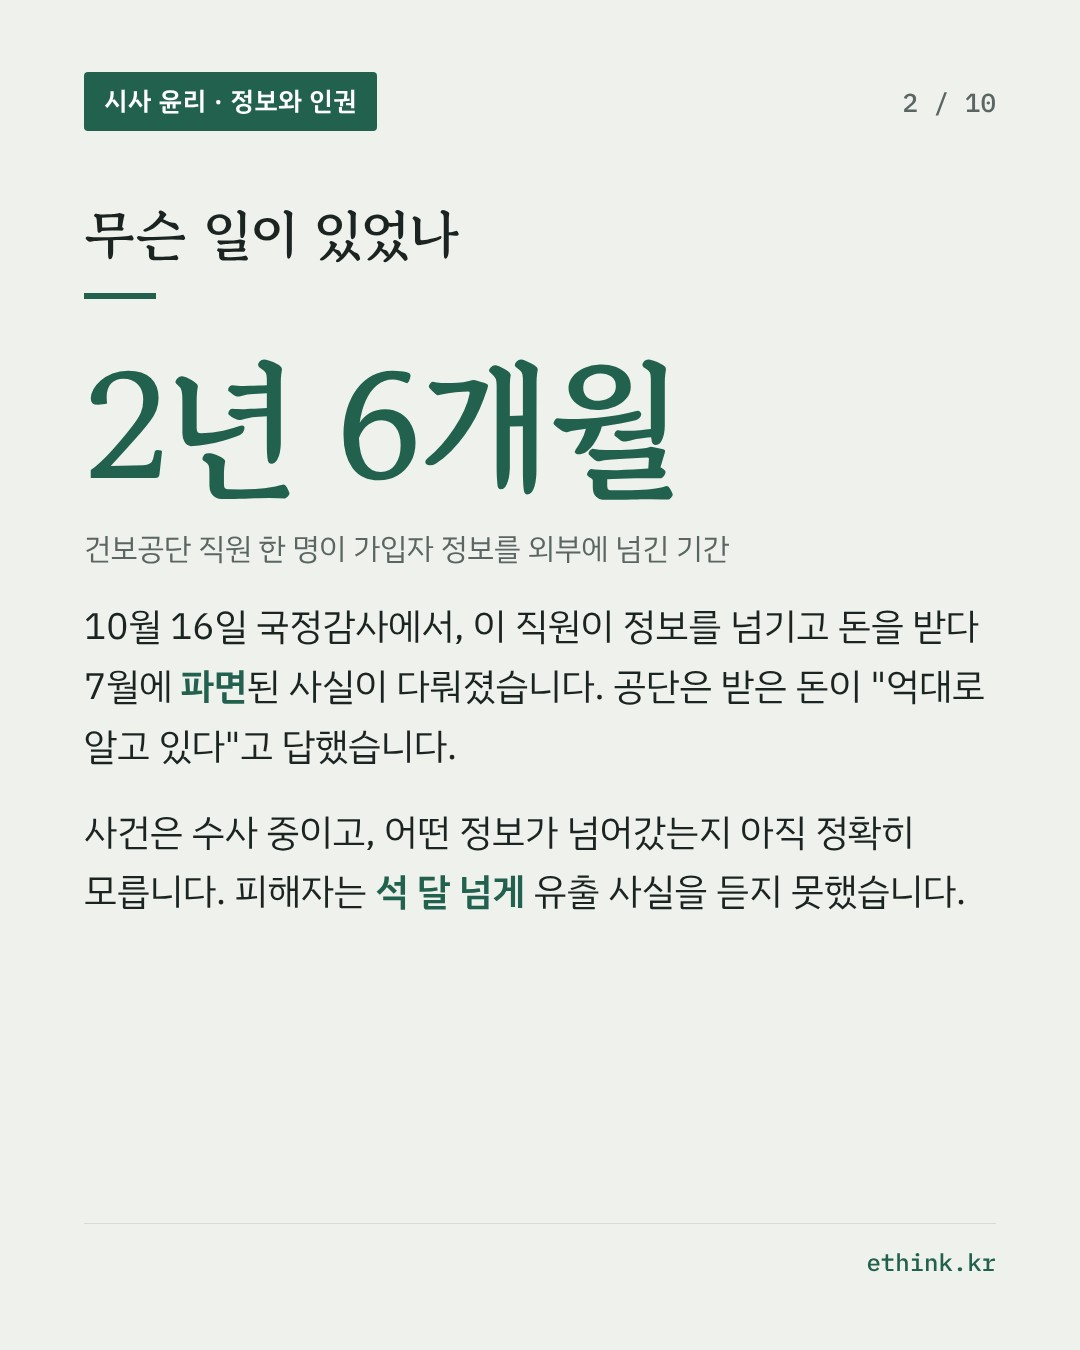
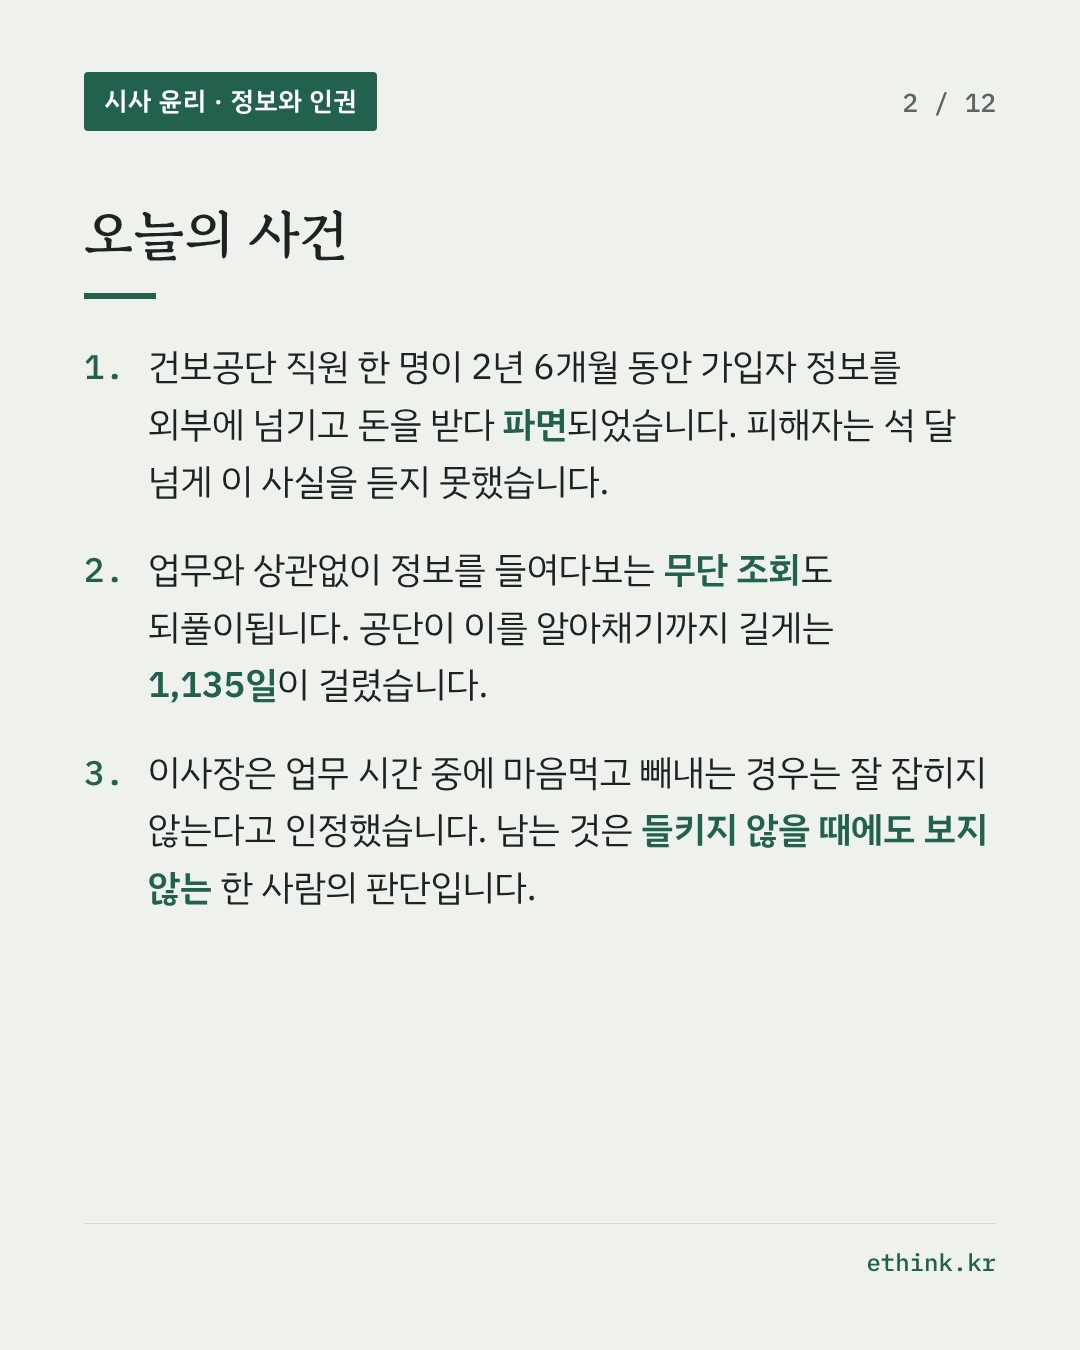
카드 시안 3: 사상가 이야기·원문 중심 12장(글라우콘·소크라테스·칸트·길벗 교과서), 지침 갱신
Claude-Session: https://claude.ai/code/session_015bQvLW38M9G43q7XUxVD63

diff --git a/_tools/WRITING_GUIDE.md b/_tools/WRITING_GUIDE.md
@@ -41,10 +41,10 @@
 
 ## 6. 썸네일(공유 이미지)
 - 글마다 `assets/og/YYYY-MM-DD-N.jpg`: `NODE_PATH=$(npm root -g) node _tools/og-page.cjs YYYY-MM-DD-N "윤리로 읽는 뉴스 · 묶음 이름" "글 제목" "수업 질문" /weekly/YYYY-MM-DD/N/` 로 만들고, 글 앞머리에 `og_image: /assets/og/YYYY-MM-DD-N.jpg`를 적는다. 없으면 호 이미지(호가 있을 때)나 사이트 기본 이미지가 쓰인다.
-- 인스타그램(@ethink.kr) 카드 뉴스(2026-10-27 글부터): 글마다 8~10장의 세로 카드(1080×1350)를 만든다. 글을 읽지 않아도 사건·쟁점·사상가 풀이·수업 활용이 잡힐 만큼 내용을 담는다.
+- 인스타그램(@ethink.kr) 카드 뉴스(2026-10-27 글부터): 글마다 10~12장의 세로 카드(1080×1350)를 만든다. 시사 소재는 오늘의 현실과 잇는 재료이고, 카드의 중심은 그것을 보는 렌즈인 사상가의 이야기·이론·원문이다. 시사 사실은 1~2장으로 줄이고, 사상가 원문 카드(quote)를 여러 장 쓴다. 길벗 교과서에 해당 사상가가 실려 있으면 "교과서에서는" 카드로 교과서 인용·풀이·물음을 그대로 옮기고 쪽수를 적는다. 인스타그램 API는 10장까지만 자동 게시하므로 11장 이상이면 재형 님이 앱에서 직접 올린다.
   - 디자인: 시사 글은 연한 녹색 바탕·진한 녹색 표지, 책 글은 종이색 바탕·벽돌색 표지. 모든 카드 왼쪽 위 같은 자리에 분류(「시사 윤리 · 정보와 인권」, 「윤리로 읽는 책 · 지은이」), 하단에는 작게 ethink.kr만 둔다(Ethink 글자 넣지 않음).
   - 표지: 그림 한 장 위에 질문 한 줄(hook, 25자 안팎). 그림은 저작권이 풀린 명화·판화(위키미디어 커먼즈, 레이크스미술관·메트로폴리탄 CC0 등)나 사상가 초상, 재형 님이 찍은 사진만 쓴다. 보도사진은 쓰지 않는다. 받은 그림은 `assets/art/`에 두고 credit에 "작품명, 시대·작가 · 퍼블릭 도메인/CC0"를 적는다. 책 글에 그림이 없으면 책 표지가 가운데 들어간다.
-  - 카드 문안 `_items/YYYY-MM-DD/ig-cards-N.yml`을 쓴다(본보기 `_items/2026-10-24/ig-cards-1.yml`, 형식은 `_tools/ig-cards.cjs` 머리말). 기본 구성: ① cover ② text '무슨 일이 있었나'(big에 숫자 하나 + 사실 두 문단) ③ notes 사실·수치 더 보기 ④ notes '왜 윤리 문제인가'(물음 2~3개) ⑤ text 사상가 이야기 풀이(그림 선택) ⑥⑦ quote 사상가 원문(note로 사례와 잇는 한두 문장) ⑧ compare ⑨ flow 수업 흐름 ⑩ end '이번 주 질문'(댓글 청하기). 카드 한 장에 짧은 문단 3~4개, 핵심 말은 **굵게**. 문장은 본문에 있는 사실·인용만 쓰고, 인용문은 원문 그대로 두고 생략은 (…)로 표시한다.
+  - 카드 문안 `_items/YYYY-MM-DD/ig-cards-N.yml`을 쓴다(본보기 `_items/2026-10-24/ig-cards-1.yml`, 형식은 `_tools/ig-cards.cjs` 머리말). 기본 구성(본보기 12장): ① cover ② notes 오늘의 사건(사실 3개) ③~⑥ 첫 사상가: 이야기 풀이(그림), 원문 quote 2~3장(note로 사례와 잇는 한두 문장), 반대편 또는 대답 ⑦⑧ 둘째 사상가 원문 quote 2장 ⑨⑩ 교과서에서는(교과서 수록 원문 quote, 교과서 풀이 notes) ⑪ flow 수업 흐름 ⑫ end 이번 주 질문. 원문은 도서관 번역서·교과서 텍스트에서 그대로 옮기고(원어 괄호 표기만 뺄 수 있음) 출처에 권·스테파누스 쪽수나 B판 쪽수를 적는다. 핵심 말은 **굵게**.
   - 「윤리로 읽는 책」은 문안을 `_reads/ig/<글 파일이름>.yml`에 두고 ② 대신 book(표지 작게, "표지 이미지: 알라딘" 자동)과 underline(밑줄 1~2개) 카드를 쓴다. 책 글 카드는 자동 게시하지 않는다(재형 님이 따로 올림).
   - 생존 인물은 사이트와 같이 머리글자 원으로 둔다(faces.yml).
   - **승인**: 문안 파일 첫 줄 근처 `approved: false`로 만든다. 재형 님께 카드 이미지 전부와 캡션을 보여 드리고 승인을 받은 뒤에만 `approved: true`로 바꿔 main에 넣는다. `approved: true`가 아니면 자동 게시 도구가 올리지 않는다.
